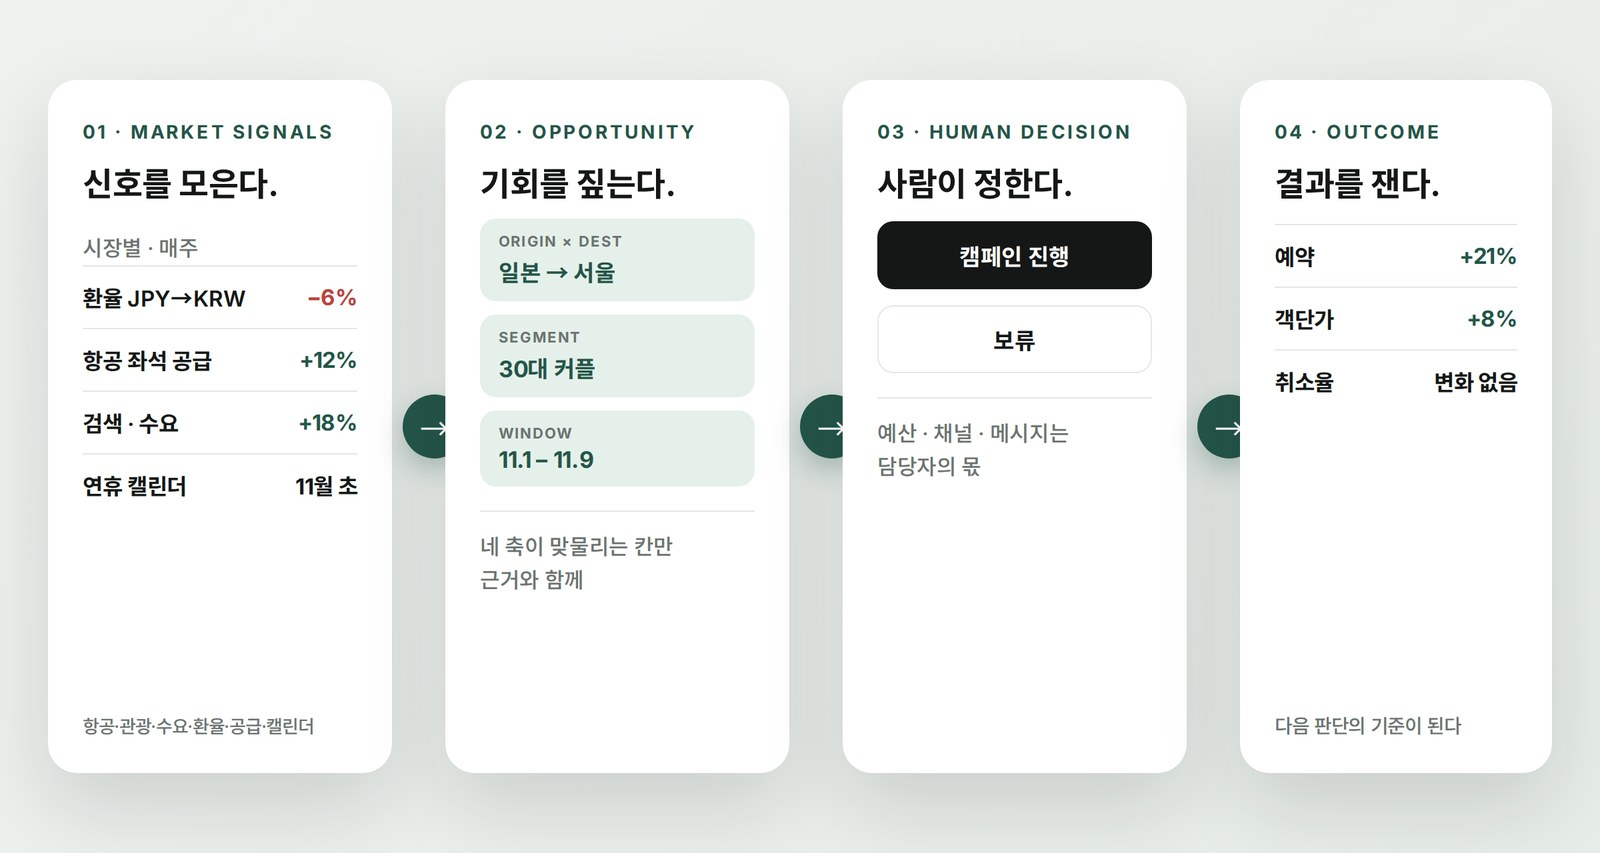
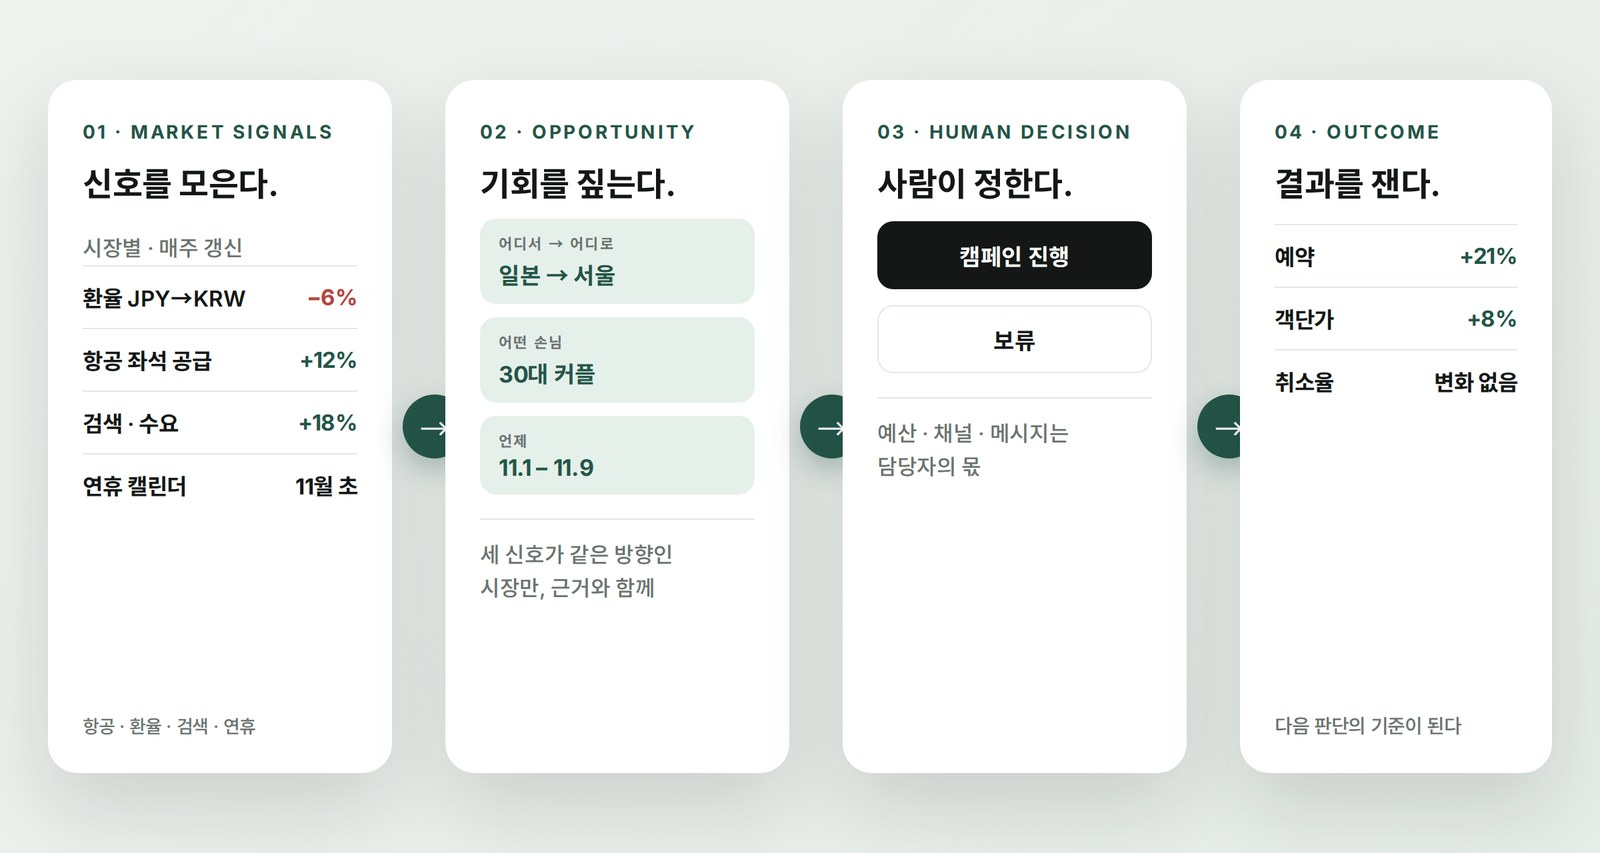
travel: korean labels in diagram, tidy copy and cta
Claude-Session: https://claude.ai/code/session_01WsGPQczCo9oamQacoYURTj

diff --git a/ko/products/travel/index.html b/ko/products/travel/index.html
@@ -2,8 +2,7 @@
 「어느 나라 → 어느 도시 · 어떤 손님 · 어느 주」에 기회가 있는지 짚는다."><meta name="robots" content="index,follow"><link rel="canonical" href="https://www.apholdings.kr/ko/products/travel/"><link rel="alternate" hreflang="ko" href="https://www.apholdings.kr/ko/products/travel/"><link rel="alternate" hreflang="en" href="https://www.apholdings.kr/en/products/travel/"><link rel="alternate" hreflang="x-default" href="https://www.apholdings.kr/en/products/travel/"><meta property="og:type" content="website"><meta property="og:site_name" content="AP Holdings"><meta property="og:title" content="AP Travel — AP Holdings"><meta property="og:description" content="항공 좌석 · 환율 · 검색량 · 연휴 신호를 모아
 「어느 나라 → 어느 도시 · 어떤 손님 · 어느 주」에 기회가 있는지 짚는다."><meta property="og:url" content="https://www.apholdings.kr/ko/products/travel/"><meta property="og:locale" content="ko_KR"><meta name="theme-color" content="#ffffff"><link rel="icon" href="/img/ap_mark.png"><link rel="preconnect" href="https://fonts.googleapis.com"><link rel="preconnect" href="https://fonts.gstatic.com" crossorigin><link href="https://fonts.googleapis.com/css2?family=Noto+Sans+KR:wght@400;500;600;700&amp;display=swap" rel="stylesheet"><link rel="stylesheet" href="/assets/v2/site.css?v=2.6"><script defer src="/assets/v2/site.js?v=2.4"></script><script type="application/ld+json">{"@context": "https://schema.org", "@type": "Organization", "name": "AP Holdings", "url": "https://www.apholdings.kr", "logo": "https://www.apholdings.kr/img/ap_mark.png", "description": "항공 좌석 · 환율 · 검색량 · 연휴 신호를 모아\n「어느 나라 → 어느 도시 · 어떤 손님 · 어느 주」에 기회가 있는지 짚는다.", "email": "cksals00@gmail.com", "sameAs": ["https://www.instagram.com/lia_park55/", "https://www.tiktok.com/@lia_park55"]}</script></head><body id="top"><a class="skip" href="#main">본문으로 이동</a><header class="site-header"><div class="wrap header-inner"><a class="brand" href="/ko/" aria-label="AP Holdings home"><span class="brand-mark"><img src="/img/ap_mark.png" alt="" width="29" height="14"></span>AP HOLDINGS</a><nav class="desktop-nav" aria-label="Main"><a href="/ko/#businesses">사업</a><a href="/ko/#portfolio">제품</a><a href="/ko/about/">회사</a><a href="/ko/ir/" class="ir-link">IR / INVESTORS</a><a href="/ko/#contact">문의</a></nav><details class="language"><summary aria-label="언어">KO</summary><ul><li><a href="/ko/products/travel/" lang="ko" aria-current="page">한국어</a></li><li><a href="/en/products/travel/" lang="en">English</a></li><li><a href="/vi/" lang="vi">Tiếng Việt<small>In preparation</small></a></li><li><a href="/ja/" lang="ja">日本語<small>In preparation</small></a></li><li><a href="/zh-cn/" lang="zh-cn">简体中文<small>In preparation</small></a></li><li><a href="/fr/" lang="fr">Français<small>In preparation</small></a></li></ul></details><details class="mobile-menu"><summary>메뉴</summary><nav aria-label="Mobile"><a href="/ko/#businesses">사업</a><a href="/ko/#portfolio">제품</a><a href="/ko/about/">회사</a><a href="/ko/ir/" class="ir-link">IR / INVESTORS</a><a href="/ko/#contact">문의</a></nav></details></div></header><main id="main"><section class="page-hero"><div class="wrap"><div class="breadcrumb"><a class="" href="/ko/#portfolio">제품</a> / AP Travel</div><span class="status">개발 중</span><h1 class="product-name">AP Travel</h1><h2>어느 나라에서, 언제, 누가 올까.</h2><p class="lead">항공 좌석 · 환율 · 검색량 · 연휴 신호를 모아
 「어느 나라 → 어느 도시 · 어떤 손님 · 어느 주」에 기회가 있는지 짚는다.</p></div></section><section class="section anchor" id="scene"><div class="wrap"><div class="section-intro"><div><span class="number">01 · 한 장면</span><h2>신호가 모이면,
-기회가 보인다.</h2></div><div class="intro-side"><p>환율 · 항공 공급 · 검색량이 같은 방향으로 움직이는 시장만
-근거와 함께 올린다. 예: 일본 → 서울 · 30대 커플 · 11월 첫째 주.
-캠페인의 예산 · 채널 · 메시지는 담당자의 몫.</p></div></div><figure style="margin:0 0 45px"><div class="product-media" style="background:transparent;padding:0"><img src="/media/gfx/travel_scene.jpg" alt="시장 신호 → 기회(일본→서울 · 30대 커플 · 11월 첫째 주) → 담당자 결정 → 결과" width="1600" height="900" loading="lazy" style="width:100%;max-height:none;border-radius:24px"></div></figure></div></section><section class="section soft anchor" id="today"><div class="wrap"><div class="cta-block"><span class="number">02 · 지금</span><h2>설계 단계.
-시장별로 검증한다.</h2><p>특정 국가 인바운드에 묶이지 않는 설계.
-AP Revenue와 같은 엔진 구조 — 신호 · 우선순위 · 사람의 결정 · 결과 기록.</p><div class="actions"><a class="button primary" href="/ko/products/revenue/">같은 구조로 작동 중인 AP Revenue</a></div></div></div></section></main><footer class="site-footer"><div class="wrap"><div class="footer-contact" id="contact"><div><span class="eyebrow">CONTACT</span><h3>Build with AP.</h3><p>제품·기술 · 전문가 자문 · 브랜드·커머스 · 글로벌 유통 · 교육·콘텐츠 · 공예·작가 · 파일럿 협력</p></div><div><a class="contact-email" href="mailto:cksals00@gmail.com">cksals00@gmail.com</a><a class="button primary" href="mailto:cksals00@gmail.com?subject=%5BAP%20Holdings%5D%20Partnership%20enquiry">협력 문의</a></div></div><div class="footer-top"><a class="brand" href="/ko/" aria-label="AP Holdings home"><span class="brand-mark"><img src="/img/ap_mark.png" alt="" width="29" height="14"></span>AP HOLDINGS</a><div class="footer-map"><div><b>AP Holdings</b><a class="" href="/ko/about/">회사 소개</a><a class="" href="/ko/ir/">IR / INVESTORS</a><a class="" href="/ko/lab/">Founder’s Lab</a></div><div><b>Decision Intelligence</b><a class="" href="/ko/products/safe/">AP Safe</a><a class="" href="/ko/products/light/">AP Light</a><a class="" href="/ko/products/revenue/">AP Revenue</a><a class="" href="/ko/products/travel/">AP Travel</a></div><div><b>Commerce</b><a class="" href="/ko/products/select/">AP SELECT</a><a class="" href="/ko/products/commerce/">Global K-Commerce</a><a class="" href="/ko/products/craft/">AP K-Craft</a><a class="" href="/ko/products/lia/">LIA</a></div><div><b>Play &amp; Learn</b><a class="" href="/ko/products/rgrg/">RGRG</a><a class="" href="/ko/products/cubs/">Hangeul Cubs</a><a class="" href="/ko/products/lastwave/">LAST WAVE</a></div><div><b>커넥터</b><a class="" href="/business/safelist-connect.html">세이프리스트 · 클로드</a><a class="" href="/business/lightlist-connect.html">라이트리스트 · 클로드</a></div></div></div><ul class="footer-policies" aria-label="개인정보 처리방침"><li class="pol-label">앱 개인정보 처리방침</li><li><a class="" href="/safelist/privacy.html">Safelist</a></li><li><a class="" href="/hangeulcubs_privacy.html">Hangeul Cubs</a></li><li><a class="" href="/rgrg/privacy.html">RGRG</a></li><li><a class="" href="/irongrade/privacy.html">IRON GRADE</a></li><li><a class="" href="/theotherhours_privacy.html">The Other Hours</a></li><li><a class="" href="/kfan_privacy.html">K-Concert Trip</a></li><li><a class="" href="/privacy.html">나의 첫투자</a></li><li><a class="" href="/kscan/privacy.html">K-Scan</a></li><li><a class="" href="/goyo/privacy.html">Goyo</a></li></ul><div class="footer-bottom"><span>© 2026 AP Holdings. All rights reserved.</span><span>Built in Korea. Designed for the world.</span><a class="" href="#top">맨 위로</a></div></div></footer></body></html>
+기회가 보인다.</h2></div><div class="intro-side"><p>환율 · 항공 공급 · 검색량이 같은 방향인 시장만
+근거와 함께 올린다.
+캠페인의 예산 · 채널 · 메시지는 담당자의 몫.</p></div></div><figure style="margin:0 0 45px"><div class="product-media" style="background:transparent;padding:0"><img src="/media/gfx/travel_scene.jpg" alt="시장 신호 → 기회(일본 → 서울 · 30대 커플 · 11.1–11.9) → 담당자 결정 → 결과" width="1600" height="900" loading="lazy" style="width:100%;max-height:none;border-radius:24px"></div></figure></div></section><section class="section soft anchor" id="today"><div class="wrap"><div class="cta-block"><span class="number">02 · 지금</span><h2>지금은 설계 단계.</h2><p>AP Revenue와 같은 엔진 — 신호 · 우선순위 · 사람의 결정 · 결과 기록.
+첫 시장부터 순서대로 데이터를 검증한다. 특정 국가에 묶이지 않는다.</p><div class="actions"><a class="button primary" href="/ko/products/revenue/">같은 엔진으로 작동 중인 AP Revenue</a><a class="button" href="mailto:cksals00@gmail.com?subject=%5BAP%20Holdings%5D%20AP%20Travel%20%ED%8C%8C%EC%9D%BC%EB%9F%BF%20%EB%AC%B8%EC%9D%98">시장 데이터 파트너 문의</a></div><p class="note">항공 · 관광 · 환율 · 검색 데이터 파트너 — 협의 중</p></div></div></section></main><footer class="site-footer"><div class="wrap"><div class="footer-contact" id="contact"><div><span class="eyebrow">CONTACT</span><h3>Build with AP.</h3><p>제품·기술 · 전문가 자문 · 브랜드·커머스 · 글로벌 유통 · 교육·콘텐츠 · 공예·작가 · 파일럿 협력</p></div><div><a class="contact-email" href="mailto:cksals00@gmail.com">cksals00@gmail.com</a><a class="button primary" href="mailto:cksals00@gmail.com?subject=%5BAP%20Holdings%5D%20Partnership%20enquiry">협력 문의</a></div></div><div class="footer-top"><a class="brand" href="/ko/" aria-label="AP Holdings home"><span class="brand-mark"><img src="/img/ap_mark.png" alt="" width="29" height="14"></span>AP HOLDINGS</a><div class="footer-map"><div><b>AP Holdings</b><a class="" href="/ko/about/">회사 소개</a><a class="" href="/ko/ir/">IR / INVESTORS</a><a class="" href="/ko/lab/">Founder’s Lab</a></div><div><b>Decision Intelligence</b><a class="" href="/ko/products/safe/">AP Safe</a><a class="" href="/ko/products/light/">AP Light</a><a class="" href="/ko/products/revenue/">AP Revenue</a><a class="" href="/ko/products/travel/">AP Travel</a></div><div><b>Commerce</b><a class="" href="/ko/products/select/">AP SELECT</a><a class="" href="/ko/products/commerce/">Global K-Commerce</a><a class="" href="/ko/products/craft/">AP K-Craft</a><a class="" href="/ko/products/lia/">LIA</a></div><div><b>Play &amp; Learn</b><a class="" href="/ko/products/rgrg/">RGRG</a><a class="" href="/ko/products/cubs/">Hangeul Cubs</a><a class="" href="/ko/products/lastwave/">LAST WAVE</a></div><div><b>커넥터</b><a class="" href="/business/safelist-connect.html">세이프리스트 · 클로드</a><a class="" href="/business/lightlist-connect.html">라이트리스트 · 클로드</a></div></div></div><ul class="footer-policies" aria-label="개인정보 처리방침"><li class="pol-label">앱 개인정보 처리방침</li><li><a class="" href="/safelist/privacy.html">Safelist</a></li><li><a class="" href="/hangeulcubs_privacy.html">Hangeul Cubs</a></li><li><a class="" href="/rgrg/privacy.html">RGRG</a></li><li><a class="" href="/irongrade/privacy.html">IRON GRADE</a></li><li><a class="" href="/theotherhours_privacy.html">The Other Hours</a></li><li><a class="" href="/kfan_privacy.html">K-Concert Trip</a></li><li><a class="" href="/privacy.html">나의 첫투자</a></li><li><a class="" href="/kscan/privacy.html">K-Scan</a></li><li><a class="" href="/goyo/privacy.html">Goyo</a></li></ul><div class="footer-bottom"><span>© 2026 AP Holdings. All rights reserved.</span><span>Built in Korea. Designed for the world.</span><a class="" href="#top">맨 위로</a></div></div></footer></body></html>
